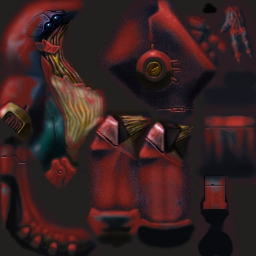
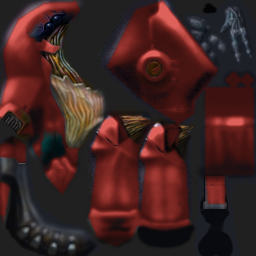
Slug Men: armour repainted clean per rank
- slug_skin repaints the armour plates (multipurpose specular mask) in the rank colour over de-grained shading with a soft highlight
- Applies to every Slug Man; the two original ones are Minors (grey-violet)

Claude-Session: https://claude.ai/code/session_01Ja8vbkayn83DPTjJrhXLXZ

diff --git a/generator/build_digsite.py b/generator/build_digsite.py
@@ -65,10 +65,10 @@ H2J_NO_SHIELD = ('sniper', 'marksman')        # ranks that carry no arm shield (
 H2J_COLOURS = {'ultra': 'major', 'sniper': 'minor', 'marksman': 'major',
                'zealot': [[1.0, 0.84, 0.32], [0.95, 0.92, 0.80], [0.85, 0.62, 0.16]]}
 
-# Slug Man ranks: health and aim (error-angle multiplier) and the armour tint baked into the skin (None: as Digsite made it)
-SLUG_RANKS = {'minor': dict(health=1.0, accuracy=1.0, tint=None),
+# Slug Man ranks: health and aim (error-angle multiplier) and the armour colour repainted over the skin (slug_skin)
+SLUG_RANKS = {'minor': dict(health=1.0, accuracy=1.0, tint=(0.42, 0.40, 0.50)),
               'major': dict(health=1.35, accuracy=0.9, tint=(0.58, 0.17, 0.15)),
-              'ultra': dict(health=1.8, accuracy=0.75, tint=(0.86, 0.88, 0.95))}
+              'ultra': dict(health=1.8, accuracy=0.75, tint=(0.80, 0.82, 0.88))}
 SLUG_WEAPONS = {'plasma pistol': (r'weapons\plasma pistol\plasma pistol', 'pistol'), 'needler': (r'weapons\needler\needler', 'pistol'),
                 'plasma rifle': (r'weapons\plasma rifle\plasma rifle', 'pistol'), 'particle beam': (r'digsite\weapons\particle beam', 'rifle'),
                 'plasma carbine': (r'digsite\weapons\plasma carbine', 'rifle'), 'pulse carbine': (r'digsite\weapons\pulse carbine', 'rifle')}
@@ -77,22 +77,33 @@ SLUG_RANK_WEAPONS = {'minor': ['needler', 'plasma rifle', 'plasma carbine'],
                      'ultra': ['plasma rifle', 'particle beam', 'plasma carbine']}
 
 def slug_skin(cls, v, si, mat, meta, skin_dir):
-    """Slug Man ranks: the grey-violet armour plates (low saturation, mid brightness) tinted, the shading kept"""
-    rank = v.get('_slug_rank')
-    if not rank or not mat.startswith('SlugMan_') or not SLUG_RANKS[rank]['tint']: return None
+    """Slug Man armour, repainted clean. Digsite's armour texture is grainy and scuffed; the plates (where the
+    multipurpose map's specular mask says metal, the flesh it marks green left alone) are repainted in the rank's
+    colour over smooth shading: the base map's light and shade with the grain taken out (a median filter, then a
+    light blur) blended with the multipurpose map's own smooth shading, and a soft highlight on the raised parts.
+    Every Slug Man gets it; the original two (no rank) are Minors."""
+    rank = v.get('_slug_rank') or 'minor'
+    if not mat.startswith('SlugMan_'): return None
+    multi = f'{bp.OUT}/models/SlugMan/{mat[:-4]}_multi.png'
+    if not os.path.exists(multi): return None
     fn = f'slugman_{rank}_{mat[:-4].lower()}.png'
     dst = f'{skin_dir}/{fn}'
     if os.path.exists(dst): return fn
     os.makedirs(skin_dir, exist_ok=True)
-    a = np.asarray(Image.open(f'{bp.OUT}/models/SlugMan/{mat}').convert('RGB')).astype(float) / 255.0
-    mx, mn = a.max(2), a.min(2)
-    sat = (mx - mn) / np.maximum(mx, 1e-3)
-    m = np.clip((0.32 - sat) / 0.12, 0, 1) * np.clip((mx - 0.12) / 0.08, 0, 1) * np.clip((0.85 - mx) / 0.1, 0, 1)
     from scipy import ndimage
-    m = ndimage.gaussian_filter(m, 1.0)[..., None]
-    lum = a.mean(2, keepdims=True)
-    tint = np.array(SLUG_RANKS[rank]['tint'])[None, None] * (0.3 + 1.35 * lum)
-    out = a * (1 - m) + np.clip(tint, 0, 1) * m
+    a = np.asarray(Image.open(f'{bp.OUT}/models/SlugMan/{mat}').convert('RGB')).astype(float) / 255.0
+    mu = np.asarray(Image.open(multi).convert('RGBA').resize(a.shape[1::-1])).astype(float) / 255.0
+    r, g = mu[..., 0], mu[..., 1]
+    m = np.clip((r - 0.06) / 0.1, 0, 1) * np.clip(1 - (g - r * 0.6) / 0.15, 0, 1)
+    m = ndimage.gaussian_filter(m, 0.8)
+    def norm(x):
+        w = m > 0.5
+        lo, hi = np.percentile(x[w], 3), np.percentile(x[w], 97)
+        return np.clip((x - lo) / max(hi - lo, 1e-3), 0, 1)
+    sm = ndimage.gaussian_filter(ndimage.median_filter(a.mean(2), 5), 1.2)
+    shade = (0.55 * norm(sm) + 0.45 * norm(ndimage.gaussian_filter(r, 0.8)))[..., None]
+    c = np.array(SLUG_RANKS[rank]['tint'])[None, None] * (0.35 + 0.85 * shade) + shade ** 4 * 0.18
+    out = a * (1 - m[..., None]) + np.clip(c, 0, 1) * m[..., None]
     Image.fromarray((np.clip(out, 0, 1) * 255).astype(np.uint8)).save(dst)
     return fn
 
@@ -124,7 +135,7 @@ def load_ai():
         variants[vp] = v
     # Slug Man ranks (added after the first add-on release): Minor / Major / Ultra in the pistol stance (plasma
     # pistol, needler, plasma rifle) and the rifle stance (particle beam, plasma carbine, pulse carbine), each rank's
-    # armour plates re-tinted (slug_skin); the two original Slug Men stay as they were
+    # armour repainted in its colour (slug_skin); the two original Slug Men are painted as Minors
     pp, pb = variants[r'digsite\characters\slug_man\slug_man plasma pistol'], variants[r'digsite\characters\slug_man\slug_man particle beam']
     for rank, weps in SLUG_RANK_WEAPONS.items():
         hp, err = SLUG_RANKS[rank]['health'], SLUG_RANKS[rank]['accuracy']

diff --git a/docs/PACK_README.md b/docs/PACK_README.md
@@ -506,7 +506,7 @@ uzdoom -file HDE_LocalDEV.pk3 HCE_EnemyAPI_LocalDEV.pk3 HaloCE_Core.pk3 HaloCE_C
 | `HCE_BlindWolf` | SPV3's Blind Wolf, extracted from its a30 map (model, texture, 18 animations, stats). It's a Pinky-style melee charger, health 90: it runs you down, bites for about 22, and pounces from up to 300 units using its leap-start, leap-airborne and leap-melee animations. It uses the new Blind Wolf sounds (alert, howl, bite, pain, death, idle) from your HaloDoomEnemies fork. |
 | `HCE_SlugManParticleBeam` | Slug Man sniper with Digsite's own Particle Beam Rifle (the 99_mac model and texture the Slug Man's `particle beam` variant was built around; its NPC projectile flies at 350 WU/s, so it is effectively hitscan here too). Every shot is telegraphed by a one-second purple aiming laser and the beam-rifle charge sound, then one hitscan beam drawn with HDE's beam rifle laser (90 × the variant's 0.5 damage modifier = 45). Keeps 400–3200 units away and crouches to fire. |
 | `HCE_SlugManPlasmaPistol` | Slug Man with a plasma pistol. |
-| `HCE_SlugMan{Minor,Major,Ultra}…` | **Slug Man ranks:** more Slug Men in the pistol stance (plasma pistol, needler, plasma rifle) and the rifle stance (particle beam, Covenant carbine, blue pulse carbine), all held in the left hand.<br>• **Minor** (Digsite's colours, 1× health): needler, plasma rifle, carbine.<br>• **Major** (crimson armour plates, 1.35× health, 10% tighter aim): plasma pistol, needler, plasma rifle, particle beam, carbine, pulse carbine.<br>• **Ultra** (silver-white plates, 1.8× health, 25% tighter aim): plasma rifle, particle beam, carbine.<br>The carbines draw HDE's green laser trail; the particle beams keep the aiming laser and glint. DoomEdNums 30441–30452 (`HCE_SlugManMajorNeedler` … `HCE_SlugManUltraPlasmaRifle`, alphabetical); `HCE_RandomSlugMan` (30409) now picks from all of them. |
+| `HCE_SlugMan{Minor,Major,Ultra}…` | **Slug Man ranks:** more Slug Men in the pistol stance (plasma pistol, needler, plasma rifle) and the rifle stance (particle beam, Covenant carbine, blue pulse carbine), all held in the left hand.<br>• **Minor** (Digsite's grey-violet, 1× health): needler, plasma rifle, carbine.<br>• **Major** (crimson armour plates, 1.35× health, 10% tighter aim): plasma pistol, needler, plasma rifle, particle beam, carbine, pulse carbine.<br>• **Ultra** (silver-white plates, 1.8× health, 25% tighter aim): plasma rifle, particle beam, carbine.<br>**Armour:** every Slug Man (the two original ones count as Minors) has its armour repainted clean: Digsite's grainy, scuffed plates (where its specular mask marks metal; the flesh is left alone) in the rank's colour over smooth shading, the base map's light and shade with the grain filtered out, blended with the specular map's own shading, and a soft highlight on the raised parts.<br>The carbines draw HDE's green laser trail; the particle beams keep the aiming laser and glint. DoomEdNums 30441–30452 (`HCE_SlugManMajorNeedler` … `HCE_SlugManUltraPlasmaRifle`, alphabetical); `HCE_RandomSlugMan` (30409) now picks from all of them. |
 | `HCE_Elite{Minor,Major,Specops,Commander}PlasmaCarbine` | Elites with **CMT's Covenant carbine** (model and textures from the CMT tags: purple carapace, glowing status lights and ammo read-out) in a real two-handed **rifle stance**. Semi-auto pairs and triples of HDE's green carbine rounds (15 base damage), each with **HDE's green carbine laser trail** from the muzzle to where it lands, with longer combat ranges than the plasma-rifle Elites. They drop HDE's Carbine. |
 
 * **Rifle stance.** The animations come from the CE-rig Elite graph you supplied (`elite.model_animations`): stand/crouch/alert idles, moves and turns, dives, evades, berserk, both rifle melees, surprise, signal and land. Its uncompressed frames decode directly. CMT's carbine sits on the `right hand elite` marker, and the support hand lands where the set already places it. A two-bone IK step keeps the support hand on the fore-grip during strides. The graph has no rifle fire overlay, so firing uses a short synthetic recoil kick. Actions the graph lacks (airborne, hard landing, throw, warn, alert move) use the Elite's pistol body, with the support hand solved onto the carbine. The same graph also has cannon (fuel rod) and flamethrower sets that aren't used yet.
